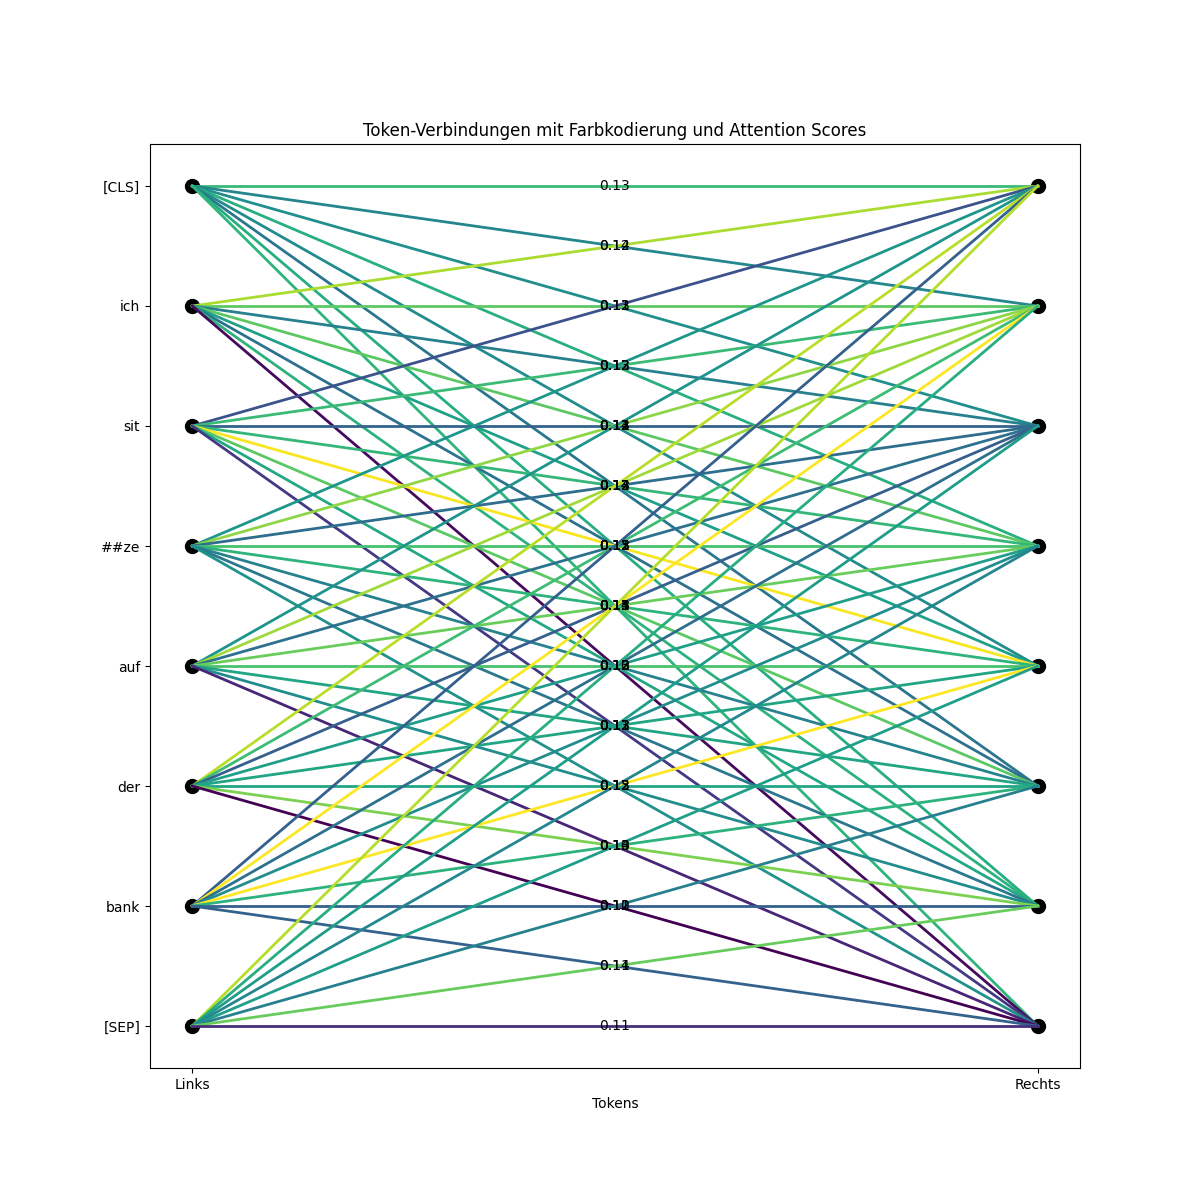
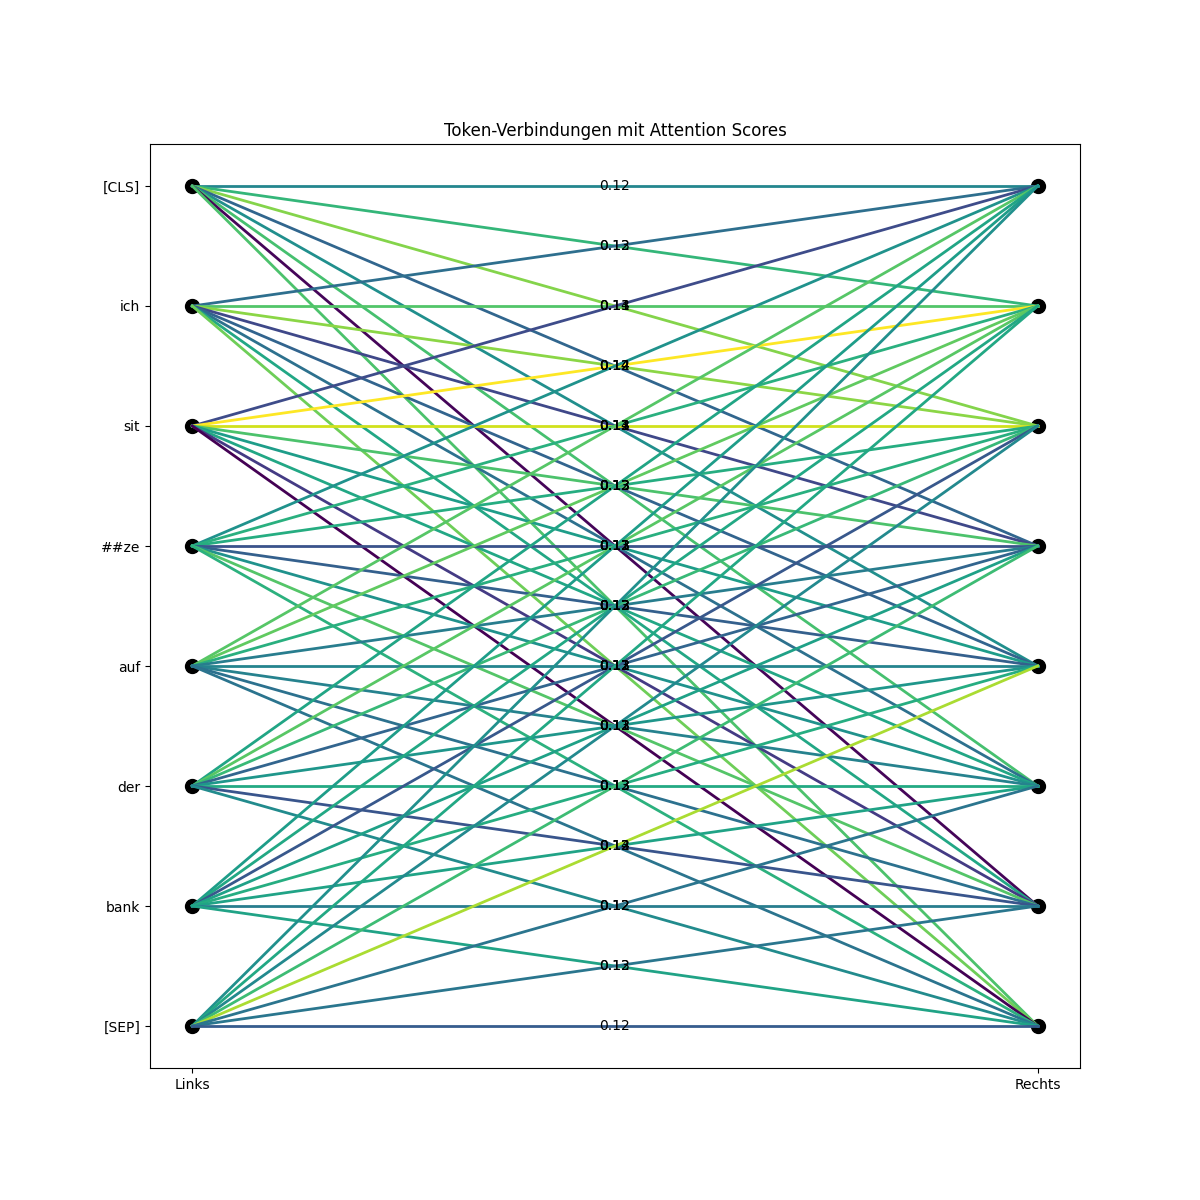
Verbesserung Demo + Umschreiben von Kapitel 3

diff --git a/Demo/Demo transformer/demo.py b/Demo/Demo transformer/demo.py
@@ -14,13 +14,34 @@ model = BertModel.from_pretrained('bert-base-uncased')
 sentence = "Ich sitze auf der Bank"
 inputs = tokenizer(sentence, return_tensors='pt')
 
+# Token-IDs und Tokens ausgeben
+print("Token-IDs:", inputs['input_ids'][0].tolist())
+tokens = tokenizer.convert_ids_to_tokens(inputs['input_ids'][0])
+print("Tokens:", tokens)
+
 # 3. Extrahiere Embeddings
 with torch.no_grad():
     outputs = model(**inputs)
     embeddings = outputs.last_hidden_state  # (1, seq_len, hidden_size)
 
-# 4. Query, Key, Value durch lineare Projektionen erzeugen
-W_Q = torch.nn.Linear(768, 64)  # Reduziere Dimensionen für bessere Übersicht
+# 4. Embeddingmatrix anzeigen (Ausschnitt)
+embedding_matrix = embeddings.squeeze(0).numpy()
+embedding_subset = embedding_matrix[:5, :5]  # Zeige nur einen Ausschnitt der Matrix
+print("Ausschnitt der Embedding-Matrix:")
+print(embedding_subset)
+
+# Visualisierung der Embeddingmatrix
+plt.figure(figsize=(8, 6))
+sns.heatmap(embedding_subset, annot=True, cmap='viridis')
+plt.title('Ausschnitt der Token Embedding Matrix')
+plt.xlabel('Embedding Dimensionen (Ausschnitt)')
+plt.ylabel('Tokens (Ausschnitt)')
+plt.savefig('token_embedding_matrix_subset.png')
+plt.close()
+print("Embeddingmatrix-Ausschnitt gespeichert als 'token_embedding_matrix_subset.png'")
+
+# 5. Query, Key, Value durch lineare Projektionen erzeugen
+W_Q = torch.nn.Linear(768, 64)
 W_K = torch.nn.Linear(768, 64)
 W_V = torch.nn.Linear(768, 64)
 
@@ -28,94 +49,45 @@ Q = W_Q(embeddings)  # (1, seq_len, 64)
 K = W_K(embeddings)  # (1, seq_len, 64)
 V = W_V(embeddings)  # (1, seq_len, 64)
 
-# 5. Attention Scores berechnen
+# 6. Attention Scores berechnen
 attention_scores = torch.matmul(Q, K.transpose(-2, -1)) / np.sqrt(64)
 attention_weights = F.softmax(attention_scores, dim=-1)
 
-# 6. Wende Attention auf V an
-output = torch.matmul(attention_weights, V)
-
-# Extrahiere Attention Matrix und Token
+# Extrahiere Attention Matrix
 attention_matrix = attention_weights.squeeze().detach().numpy()
-tokens = tokenizer.convert_ids_to_tokens(inputs['input_ids'][0])
 
-# Identifiziere das Token "bank"
-bank_token_idx = tokens.index("bank")
-
-# 7. Visualisierung der Heatmap
+# 7. Heatmap der Attention-Matrix
 plt.figure(figsize=(10, 8))
 sns.heatmap(attention_matrix, annot=True, cmap='viridis', xticklabels=tokens, yticklabels=tokens)
 plt.title('Attention Matrix Heatmap')
-plt.savefig('attention_plot_with_bank.png')
+plt.savefig('attention_matrix_heatmap.png')
 plt.close()
+print("Attention-Heatmap gespeichert als 'attention_matrix_heatmap.png'")
 
-# 8. Visualisierung der Tokens mit Verbindungen
+# 8. Token-Verbindungen visualisieren
 fig, ax = plt.subplots(figsize=(12, 12))
+y_positions = np.arange(len(tokens) - 1, -1, -1)
+ax.scatter(np.zeros(len(tokens)), y_positions, c='black', s=100)
+ax.scatter(np.ones(len(tokens)), y_positions, c='black', s=100)
 
-# Vertikale Positionen der Tokens links und rechts (umgedreht, damit der Satz von oben nach unten gelesen wird)
-y_positions_left = np.arange(len(tokens) - 1, -1, -1)
-y_positions_right = np.arange(len(tokens) - 1, -1, -1)
-
-# Zeichne die Tokens links und rechts
-ax.scatter(np.zeros(len(tokens)), y_positions_left, c='black', label='Tokens (Links)', s=100)
-ax.scatter(np.ones(len(tokens)), y_positions_right, c='black', label='Tokens (Rechts)', s=100)
-
-# Erstelle eine Farbmap, um Attention-Werte in Farben zu übersetzen
-cmap = cm.viridis  # Wir verwenden die 'viridis' Farbskala für eine visuelle Ähnlichkeit mit der Heatmap
-
-# Normalisiere die Attention-Gewichte für die Farbzuweisung
+cmap = cm.viridis
 norm = plt.Normalize(vmin=np.min(attention_matrix), vmax=np.max(attention_matrix))
 
-# Zeichne Verbindungen mit Farbkodierung
 for i in range(len(tokens)):
     for j in range(len(tokens)):
         weight = attention_matrix[i, j]
-        if weight > 0.05:  # Nur stärkere Verbindungen anzeigen
-            color = cmap(norm(weight))  # `norm(weight)` gibt den Farbwert aus der Farbkarte zurück
-            ax.plot([0, 1], [y_positions_left[i], y_positions_right[j]], color=color, lw=2)
-            # Zeige den Attention Score auf der Linie an
-            ax.text((0 + 1) / 2, (y_positions_left[i] + y_positions_right[j]) / 2,
-                    f'{weight:.2f}', color='black', ha='center', va='center', fontsize=10)
+        if weight > 0.05:
+            color = cmap(norm(weight))
+            ax.plot([0, 1], [y_positions[i], y_positions[j]], color=color, lw=2)
+            ax.text(0.5, (y_positions[i] + y_positions[j]) / 2, f'{weight:.2f}', ha='center', va='center', fontsize=10)
 
-# Setze Achsenlabels
-ax.set_yticks(y_positions_left)
+ax.set_yticks(y_positions)
 ax.set_yticklabels(tokens)
 ax.set_xticks([0, 1])
 ax.set_xticklabels(['Links', 'Rechts'])
-ax.set_xlabel('Tokens')
-
-# Speichern der Visualisierung
-plt.title('Token-Verbindungen mit Farbkodierung und Attention Scores')
+plt.title('Token-Verbindungen mit Attention Scores')
 plt.savefig('token_connections_with_attention_scores.png')
 plt.close()
+print("Token-Verbindungen gespeichert als 'token_connections_with_attention_scores.png'")
 
-# 9. Neue Visualisierung der Verbindungen von "Bank"
-fig, ax = plt.subplots(figsize=(12, 12))
-
-# Zeichne die Tokens links und rechts
-ax.scatter(np.zeros(len(tokens)), y_positions_left, c='black', label='Tokens (Links)', s=100)
-ax.scatter(np.ones(len(tokens)), y_positions_right, c='black', label='Tokens (Rechts)', s=100)
-
-# Zeichne nur die Verbindungen von "Bank"
-for j in range(len(tokens)):
-    weight = attention_matrix[bank_token_idx, j]
-    if weight > 0.05:  # Nur stärkere Verbindungen anzeigen
-        color = cmap(norm(weight))  # `norm(weight)` gibt den Farbwert aus der Farbkarte zurück
-        ax.plot([0, 1], [y_positions_left[bank_token_idx], y_positions_right[j]], color=color, lw=2)
-        # Zeige den Attention Score auf der Linie an
-        ax.text((0 + 1) / 2, (y_positions_left[bank_token_idx] + y_positions_right[j]) / 2,
-                f'{weight:.2f}', color='black', ha='center', va='center', fontsize=10)
-
-# Setze Achsenlabels
-ax.set_yticks(y_positions_left)
-ax.set_yticklabels(tokens)
-ax.set_xticks([0, 1])
-ax.set_xticklabels(['Links', 'Rechts'])
-ax.set_xlabel('Tokens')
-
-# Speichern der neuen Visualisierung
-plt.title('Verbindungen von "Bank" zu anderen Tokens mit Attention Scores')
-plt.savefig('connections_from_bank_only_with_scores.png')
-plt.close()
-
-print("Plots gespeichert als 'token_connections_with_attention_scores.png' und 'connections_from_bank_only_with_scores.png'")
+print("Alle Visualisierungen wurden erfolgreich gespeichert.")

diff --git a/Inhalt/04_Inhalt/attention.tex b/Inhalt/04_Inhalt/attention.tex
@@ -9,12 +9,15 @@ Jeder Token ist einzigartig und wird zunächst nur durch eine natürliche Zahl r
 
 Grundlage jedes Attention-Zyklus sind Eingabe-Tokens.  
 Um die mathematische Vorgehensweise besser zu veranschaulichen, wird im Folgenden der Satz \enquote{Ich sitze auf der Bank} als Beispiel verarbeitet.
-Jedes dieser Wörter ist ein eigener Token, der vor der Eingabe in den Attention-Zyklus vom Transformer übersetzt wurde:
-[\enquote{Ich}, \enquote{sitze}, \dots, \enquote{Bank}].  
-Diese Tokens könnten für das Modell wie folgt aussehen: [\enquote{243}, \enquote{645}, \dots, \enquote{316}].
+Dafür wird auf das Transformer-Model \enquote{BERT} zurückgegriffen.
+Jedes dieser Wörter ist ein eigener Token, der vor der Eingabe in den Attention-Zyklus vom Transformer übersetzt wird:
+[\enquote{[CLS]}, \enquote{ich}, \enquote{sit}, \enquote{##ze}, \enquote{auf}, \enquote{der}, \enquote{bank}, \enquote{[SEP]}].  
+\enquote{[CLS]} ist ein Klassifizierungstoken, der am Anfang jeder Eingabesequenz eingefügt wird.
+\enquote{[SEP]} trennt verschiedene Teile dieser Eingabesequenz.
+Diese Tokens sehen für das Model wie folgt aus: [101, 22564, 4133, 4371, 21200, 4315, 2924, 102].
 Die Herausforderung für den Transformer besteht darin, aus dem Kontext der anderen Tokens zu erkennen, ob \enquote{Bank} eine Sitzbank oder das Finanzinstitut Bank bedeutet.
 
-Jeder Token bildet ein Schlüssel-Werte-Paar.  
+Jeder Token bildet ein Schlüssel-Werte-Paar.
 Der korrespondierende Wert hinter einem Token ist ein Vektor, der die Bedeutung eines Tokens hinsichtlich mehrerer Dimensionen beschreibt.  
 Diese Vektoren sind aus Trainingsdaten des Transformer-Modells entstanden.
 

diff --git a/Inhalt/04_Inhalt/einleitung.tex b/Inhalt/04_Inhalt/einleitung.tex
@@ -8,7 +8,7 @@ Der Grund, warum Transformer im Bereich der Textanalyse und -verarbeitung so gut
 Sie sind dadurch viel effizienter, schneller und erzielen auch bessere Ergebnisse als alternative Ansätze.  
 Die klassische Transformer-Architektur wurde 2017 in einem Paper mit dem Titel \enquote{Attention is All You Need} vorgestellt.  
 Diese Grundlagen zu verstehen, ermöglicht es auch, bekannte Modelle wie BERT, GPT oder T5 zu verstehen.  
-Ziel dieser Arbeit ist es, dem Leser ohne viel Vorwissen die klassischen Konzepte der Transformer-Architektur zu verdeutlichen.  
+Ziel dieser Arbeit ist es, dem Leser ohne viel Vorwissen die klassischen Konzepte der Transformer-Architektur im Kontext der Textverarbeitung zu verdeutlichen.  
 
 \section{Aufbau der Arbeit}
 
